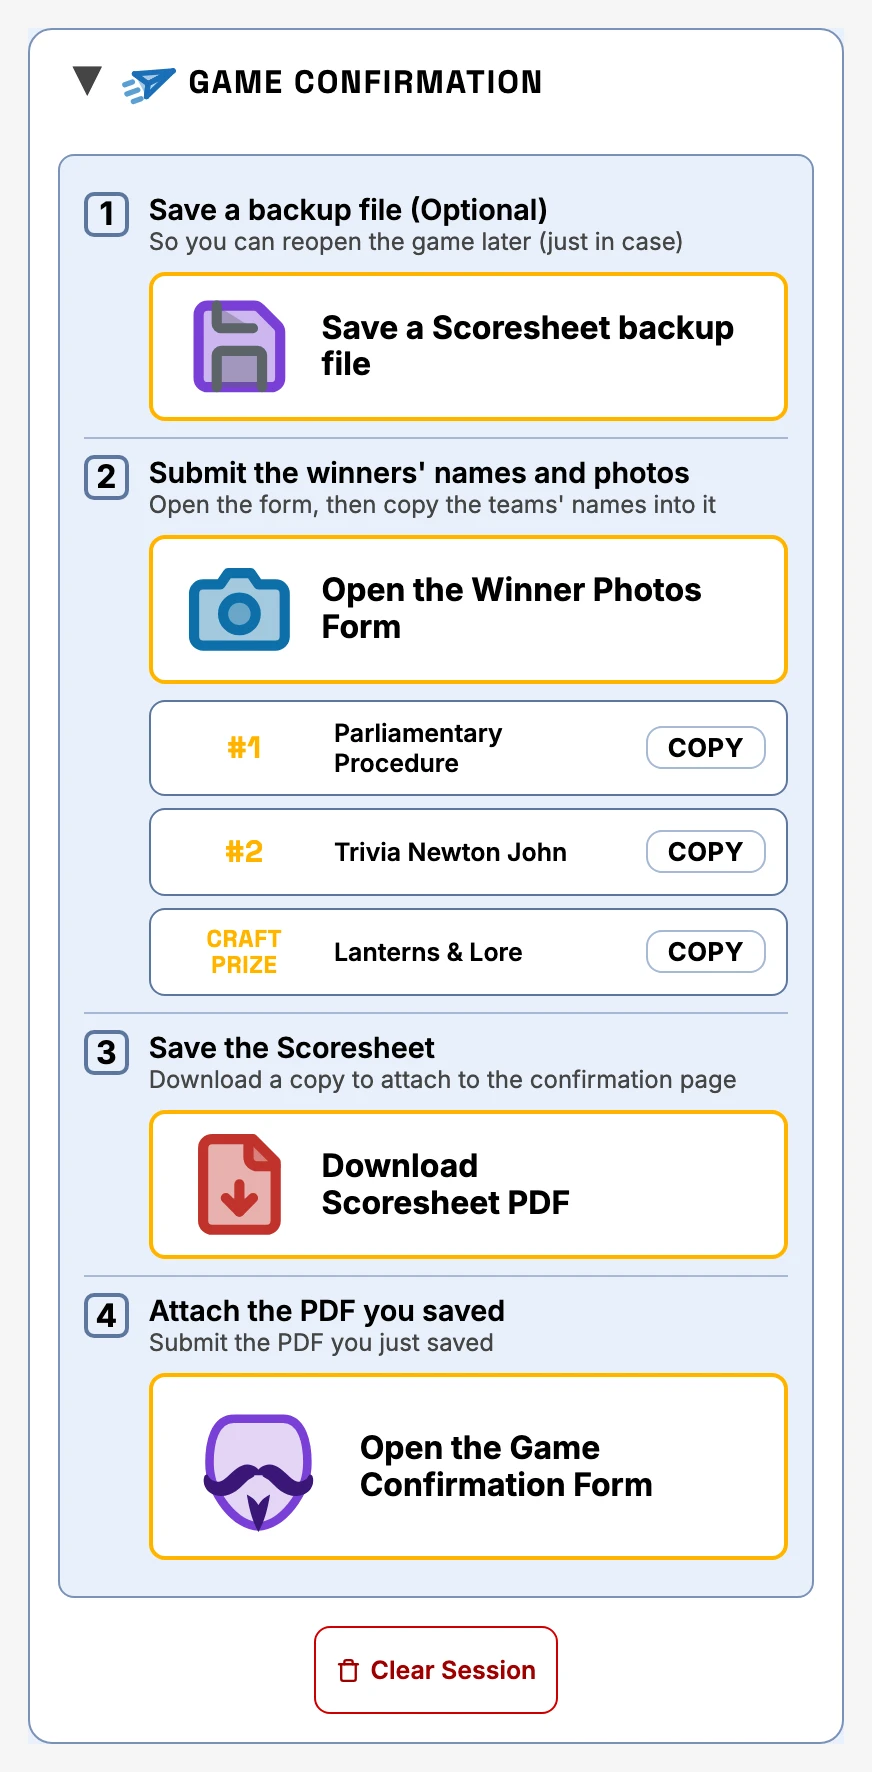
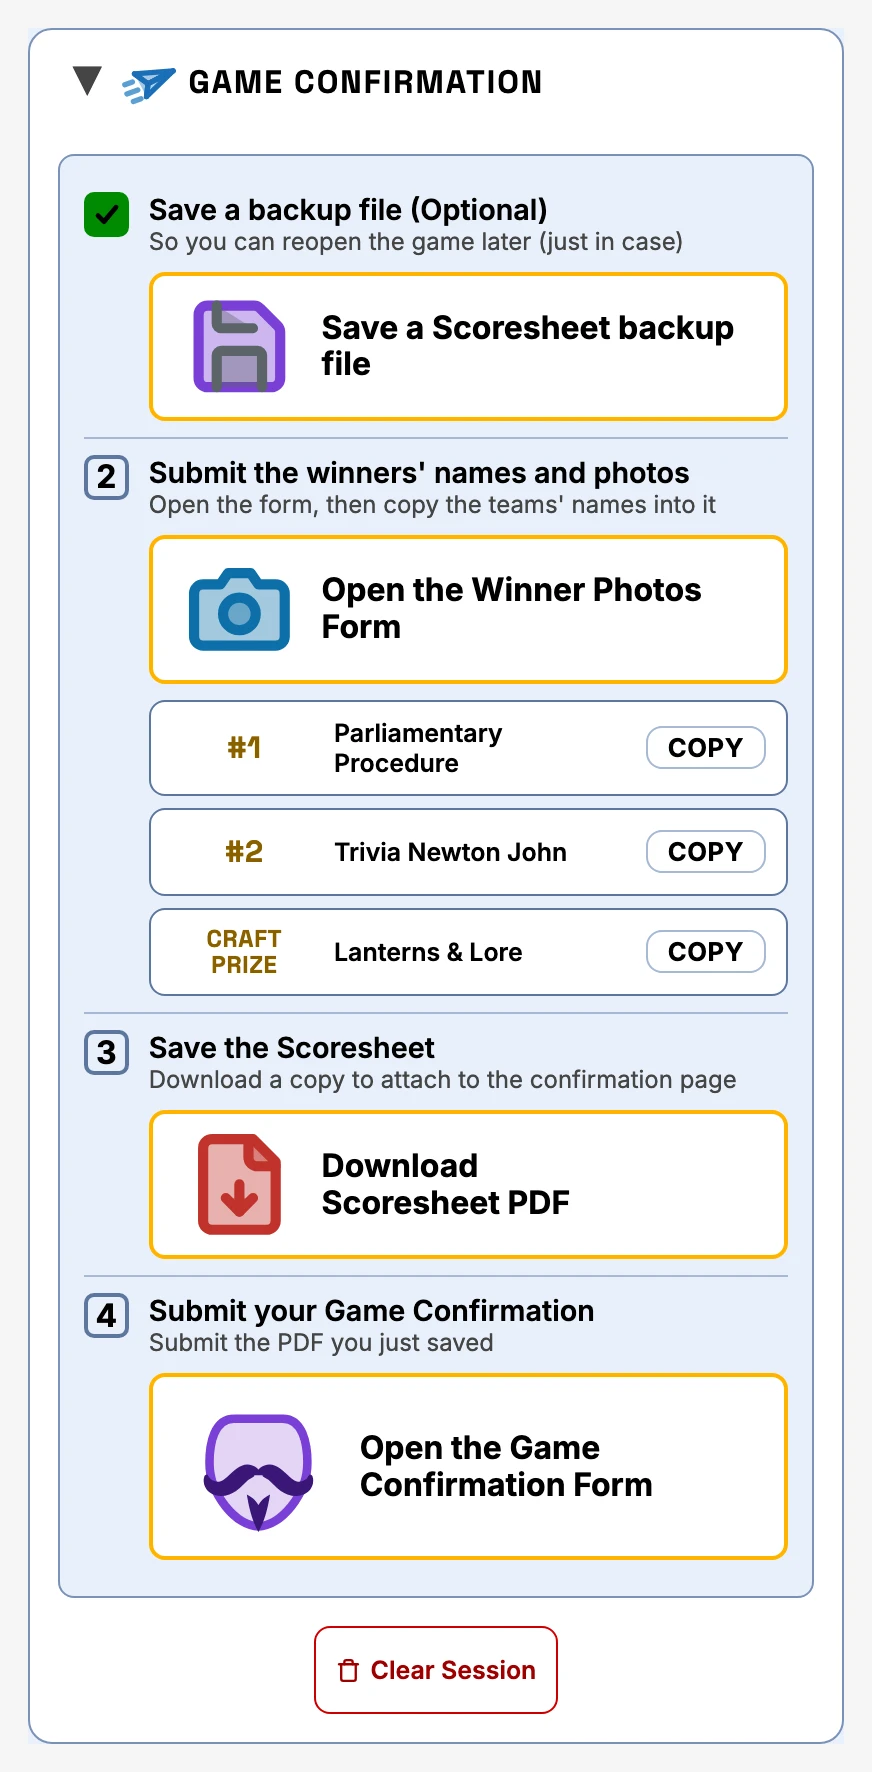
v22.69 Question-scoring checkmark on ticked steps, no view jump on backup, darker light-mode place labels, step 4 renamed, FAQ v1.70 screenshots

diff --git a/js/app.js b/js/app.js
@@ -69,8 +69,8 @@ const FIELD_MAX = {
   timezone: 64,
   locale: 35,
 };
-const APP_VERSION = "v22.68"; // #Version Number — bump this manually when you release a new build
-const APP_VERSION_DATE = "Nov 22, 2026 4:18 AM"; // #Version Date — bump alongside APP_VERSION so folks can spot a stale build
+const APP_VERSION = "v22.69"; // #Version Number — bump this manually when you release a new build
+const APP_VERSION_DATE = "Nov 22, 2026 4:24 AM"; // #Version Date — bump alongside APP_VERSION so folks can spot a stale build
 // version.json (repo root) mirrors these two — see checkForUpdate() below for why, and bump it
 // in the same commit as these two or the update-available check starts lying: it'd either miss
 // a real new release (version.json still saying the old version) or nag a host running the
@@ -1112,7 +1112,7 @@ const FINISH_STEPS = [
   { k: "backup", label: "Save a backup file (Optional)", hint: "So you can reopen the game later (just in case)" },
   { k: "photos", label: "Submit the winners' names and photos", hint: "Open the form, then copy the teams' names into it" },
   { k: "pdf", label: "Save the Scoresheet", hint: "Download a copy to attach to the confirmation page" },
-  { k: "confirm", label: "Attach the PDF you saved", hint: "Submit the PDF you just saved" },
+  { k: "confirm", label: "Submit your Game Confirmation", hint: "Submit the PDF you just saved" },
 ];
 
 
@@ -2804,7 +2804,7 @@ function finishChecklistHtml() {
   let h = `<ol class="finish-list">`;
   FINISH_STEPS.forEach((x, i) => {
     const done = finishDone.has(x.k);
-    h += `<li class="finish-item${done ? " done" : ""}"><span class="finish-box" aria-hidden="true">${done ? "\u2713" : i + 1}</span><div class="finish-body"><span class="finish-text">${x.label}${done ? '<span class="sr-only"> (done)</span>' : ""}${x.hint ? `<span class="finish-hint">${x.hint}</span>` : ""}</span>${finishActionHtml(x.k)}</div></li>`;
+    h += `<li class="finish-item${done ? " done" : ""}"><span class="finish-box" aria-hidden="true">${done ? CHECK_ICON_SVG : i + 1}</span><div class="finish-body"><span class="finish-text">${x.label}${done ? '<span class="sr-only"> (done)</span>' : ""}${x.hint ? `<span class="finish-hint">${x.hint}</span>` : ""}</span>${finishActionHtml(x.k)}</div></li>`;
   });
   return h + "</ol>";
 }
@@ -2818,7 +2818,24 @@ function markFinish(key) {
 // writes to the DOM behind its back, so anything that resets finishDone must call this too.
 function refreshFinishChecklist() {
   const el = document.getElementById("finishChecklist");
-  if (el) el.innerHTML = finishChecklistHtml();
+  if (!el) return;
+  // Swapping the HTML drops the button the host just tapped (and its focus), which made the
+  // view jump. Keep the card at the same spot on screen and put focus back on the same control.
+  const ae = document.activeElement;
+  const focusSel = ae && el.contains(ae) ? ae.closest("li") : null;
+  const idx = focusSel ? [...el.querySelectorAll("li")].indexOf(focusSel) : -1;
+  const main = document.getElementById("mainContent");
+  const top0 = el.getBoundingClientRect().top;
+  el.innerHTML = finishChecklistHtml();
+  if (idx >= 0) {
+    const t = el.querySelectorAll("li")[idx]?.querySelector("button, a");
+    if (t) t.focus({ preventScroll: true });
+  }
+  const d = el.getBoundingClientRect().top - top0;
+  if (d) {
+    if (main && main.scrollHeight > main.clientHeight) main.scrollTop += d;
+    else window.scrollBy(0, d);
+  }
 }
 // "Yes" on the post-export prompt: same safety net as Clear Session when no backup was saved.
 function clearAfterExport() {

diff --git a/index.html b/index.html
@@ -109,7 +109,7 @@
     </div>
     </div>
     <div class="settings-panel-foot">
-    <div class="settings-meta"><span class="settings-version" id="versionLabel"></span><details class="settings-about"><summary>What's new</summary><div class="about-ver"><b>v22.68</b><ul><li>Game Confirmation: the step buttons now have a gold outline, and only the #1/#2/#3 numbers are bigger in the copy buttons (Craft Prize is back to normal).</li></ul></div><div class="about-ver"><b>v22.67</b><ul><li>Game Confirmation: step 3 is now called "Save the Scoresheet".</li></ul></div><div class="about-ver"><b>v22.66</b><ul><li>Game Confirmation: the timer progress line stays while paused, the backup floppy is purple, place labels are bigger, and the PDF and attach steps are renamed.</li></ul></div></details><span class="settings-disclaimer"><svg class="icon-ui" viewBox="0 0 24 24" aria-hidden="true" focusable="false"><path d="m21.73 18-8-14a2 2 0 0 0-3.48 0l-8 14A2 2 0 0 0 4 21h16a2 2 0 0 0 1.73-3"/><path d="M12 9v4"/><path d="M12 17h.01"/></svg> Built with Anthropic's Claude AI — double-check scores &amp; banter yourself.</span></div>
+    <div class="settings-meta"><span class="settings-version" id="versionLabel"></span><details class="settings-about"><summary>What's new</summary><div class="about-ver"><b>v22.69</b><ul><li>Game Confirmation: ticked steps use the same checkmark as question scoring, tapping the backup button no longer makes the view jump, step 4 is "Submit your Game Confirmation", and the place labels are darker in light mode.</li></ul></div><div class="about-ver"><b>v22.68</b><ul><li>Game Confirmation: the step buttons now have a gold outline, and only the #1/#2/#3 numbers are bigger in the copy buttons (Craft Prize is back to normal).</li></ul></div><div class="about-ver"><b>v22.67</b><ul><li>Game Confirmation: step 3 is now called "Save the Scoresheet".</li></ul></div></details><span class="settings-disclaimer"><svg class="icon-ui" viewBox="0 0 24 24" aria-hidden="true" focusable="false"><path d="m21.73 18-8-14a2 2 0 0 0-3.48 0l-8 14A2 2 0 0 0 4 21h16a2 2 0 0 0 1.73-3"/><path d="M12 9v4"/><path d="M12 17h.01"/></svg> Built with Anthropic's Claude AI — double-check scores &amp; banter yourself.</span></div>
     </div>
   </div>
 </div>

diff --git a/faq/index.html b/faq/index.html
@@ -1327,7 +1327,7 @@
             width="872" height="1772" decoding="async"
             src="screenshots/export-bar.webp"
             data-shot-base="export-bar"
-            alt="Game Confirmation section as one numbered list: Save a backup file (Optional), Submit the winners' names and photos with Copy buttons for the top teams and the craft prize winner under it, Save the Scoresheet, and Attach the PDF you saved"
+            alt="Game Confirmation section as one numbered list: Save a backup file (Optional), Submit the winners' names and photos with Copy buttons for the top teams and the craft prize winner under it, Save the Scoresheet, and Submit your Game Confirmation"
             onerror="faqShotFallback(this,'Game Confirmation section — the four numbered steps')"
           />
         </div>
@@ -1352,7 +1352,7 @@
               <li><strong>Save a backup file (Optional).</strong> Saves the game so you can reopen it later, just in case. Skip it if you don't need one.</li>
               <li><strong>Submit the winners' names and photos.</strong> Tap <strong>Open the Winner Photos Form</strong> to open the form in a new tab, then tap <strong>Copy</strong> under it for each team name you need to paste in.</li>
               <li><strong>Save the Scoresheet.</strong> Tap <strong>Download Scoresheet PDF</strong> to save the finished scoresheet to your device.</li>
-              <li><strong>Attach the PDF you saved.</strong> Tap <strong>Open the Game Confirmation Form</strong> to open the form in a new tab, where you submit the PDF you saved.</li>
+              <li><strong>Submit your Game Confirmation.</strong> Tap <strong>Open the Game Confirmation Form</strong> to open the form in a new tab, where you submit the PDF you saved.</li>
             </ol>
             <p>Each step ticks off as you go, but nothing is forced, so you can skip or redo any of them. When you're finished, tap <strong>Clear Session</strong> and answer the prompt.</p>
           </div>

diff --git a/css/styles.css b/css/styles.css
@@ -3249,6 +3249,7 @@ input.at-limit,textarea.at-limit{border-color:var(--accent-orange);box-shadow:0 
 .finish-warn{margin:0;font-size:.78rem;color:var(--accent-gold)}
 .finish-box{flex:none;display:inline-flex;align-items:center;justify-content:center;width:1.4rem;height:1.4rem;border:2px solid var(--border-control);border-radius:5px;font-weight:700;line-height:1}
 .finish-item.done .finish-box{background:var(--accent-green);border-color:var(--accent-green);color:#000}
+.finish-box .icon-mark{width:.9rem;height:.9rem;vertical-align:0}
 .finish-text{flex:1;min-width:0;font-size:.9rem;font-weight:600}
 .finish-hint{display:block;font-size:.75rem;font-weight:400;color:var(--text-muted)}
 .finish-body .winner-copy{margin:0;max-width:22rem;width:100%}
@@ -3258,6 +3259,7 @@ input.at-limit,textarea.at-limit{border-color:var(--accent-orange);box-shadow:0 
 .finish-rect .icon-save{--icon-tint:var(--tint-flask)}
 .finish-rect-label .lb-line{display:block}
 .finish-body .wc-label.wc-num{font-size:.95rem}
+[data-theme="light"] .finish-body .wc-label{color:var(--tint-theme-2)}
 .finish-rect-text{flex:1 1 0;display:flex;flex-direction:column;gap:2px;min-width:0;font-family:var(--font-body)}
 .finish-rect-label{font-size:1rem;font-weight:800;line-height:1.15;white-space:normal;overflow-wrap:anywhere}
 .finish-rect-sub{font-size:.78rem;font-weight:600;line-height:1.2;white-space:normal}

diff --git a/tests/v22-47.test.js b/tests/v22-47.test.js
@@ -46,7 +46,7 @@ describe("v22.47 closing tutorial steps and FAQ", () => {
       const item = window.document.getElementById("q-how-do-i-wrap-up-a-finished-game");
       assert.ok(item, "wrap-up FAQ item missing");
       const steps = [...item.querySelectorAll("ol > li > strong:first-child")].map((s) => s.textContent);
-      const pos = ["Save a backup file", "Submit the winners", "Save the Scoresheet", "Attach the PDF"].map((t) => steps.findIndex((x) => x.startsWith(t)));
+      const pos = ["Save a backup file", "Submit the winners", "Save the Scoresheet", "Submit your Game Confirmation"].map((t) => steps.findIndex((x) => x.startsWith(t)));
       assert.deepEqual(pos, [0, 1, 2, 3], "steps missing or out of order: " + steps);
       assert.match(item.textContent, /Optional/);
       assert.match(item.textContent, /winners. names and photos/);

diff --git a/faq/js/faq.js b/faq/js/faq.js
@@ -4,7 +4,7 @@
 // #versionLabel element. Here the same string feeds two spots — the page footer and the
 // Settings panel's settings-meta row — so bumping a release only means editing these two
 // constants instead of hunting down every place the version text is written out by hand.
-const FAQ_VERSION = "v1.69";
+const FAQ_VERSION = "v1.70";
 const FAQ_VERSION_DATE = "22 Nov 2026";
 
 // Same Lucide sun/moon geometry as the main app's THEME_ICON_SUN/MOON (js/app.js), tagged

diff --git a/faq/screenshots/README.md b/faq/screenshots/README.md
@@ -51,7 +51,7 @@ comparison it exists to make.
 | `craft-prize.webp` | The Craft Prize Drawing section open pre-draw, showing the Exclude Top / Drumroll-seconds steppers and the square **Start Drumroll** button (v19.60). | Craft Prize Drawing |
 | `craft-prize-drumroll.webp` | The Craft Prize drumroll actively playing, right after clicking Start Drumroll — the spinning name and countdown bar. | Craft Prize Drawing |
 | `craft-prize-winner.webp` | The finished draw — winning team announced, with the **Clear** button next to the result and the Winner Announcement Script below. | Craft Prize Drawing |
-| `export-bar.webp` | The Game Confirmation section as one numbered list — Save a backup file (Optional), Submit the winners' names and photos (📷 form button with the Copy buttons for the top teams and craft prize winner under it), Save the Scoresheet (Download Scoresheet PDF), Attach the PDF you saved (🎭 form button), then Clear Session. Each step button is a wide rectangle with a gold outline and the picto on the left (v22.68). Dark + light. | Exporting |
+| `export-bar.webp` | The Game Confirmation section as one numbered list — Save a backup file (Optional), Submit the winners' names and photos (📷 form button with the Copy buttons for the top teams and craft prize winner under it), Save the Scoresheet (Download Scoresheet PDF), Submit your Game Confirmation (🎭 form button), then Clear Session. Each step button is a wide rectangle with a gold outline and the picto on the left (v22.69). Dark + light. | Exporting |
 | `pdf-export.webp` | The downloaded PDF scoresheet — same header plus full standings. | Exporting |
 | `jd-upload-form.webp` | The Game Confirmation page, opened in its own browser tab. | Exporting |
 | `sound-test-buttons.webp` | The Craft Prize Drawing's Test Sounds bar — the square Roll / Fade out / Crash / Horn buttons (Advanced Settings → Manual Drumroll Control **and** Sound Test Buttons both on). | Tips & Tricks |

diff --git a/CHANGELOG.md b/CHANGELOG.md
@@ -14,6 +14,14 @@ Theme Night is a major change, so its first release (commit subject "v19.78") is
 v20.0 here and in the app, and the follow-ups after it are v20.1 through v20.6 (commit subjects
 v19.79 through v19.84; git history isn't rewritten).
 
+## v22.69 - 2026-11-22
+
+- **Ticked steps use the per-question checkmark** (`CHECK_ICON_SVG`) instead of a text "✓".
+- **No more view jump** when tapping Save a Scoresheet backup file: the checklist refresh keeps focus on the same button and the card at the same spot on screen.
+- **Light mode:** the #1/#2/Craft Prize labels use a darker gold (`--tint-theme-2`).
+- **Step 4 renamed "Submit your Game Confirmation".**
+- FAQ v1.70: step 4 name and regenerated `export-bar` screenshots (backup step shown ticked).
+
 ## v22.68 - 2026-11-22
 
 - **Game Confirmation step buttons have a gold outline** to draw the eye.

diff --git a/faq/CHANGELOG.md b/faq/CHANGELOG.md
@@ -2,6 +2,12 @@
 
 All notable changes to the Scorekeeper FAQ site are documented here.
 
+## [1.70] - 22 Nov 2026
+
+### Changed
+
+- **Game Confirmation steps:** step 4 is now "Submit your Game Confirmation" (wrap-up list, alt text), and the `export-bar` screenshots (dark + light) are regenerated for app v22.69 with the backup step ticked, the new checkmark and darker light-mode labels.
+
 ## [1.69] - 22 Nov 2026
 
 ### Changed
